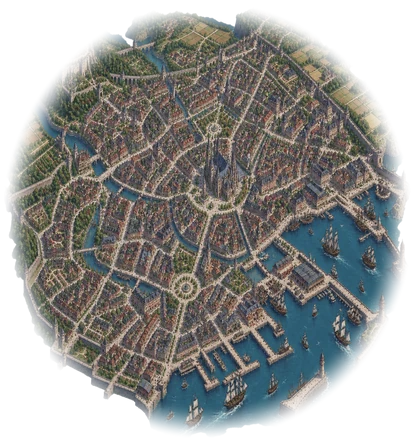
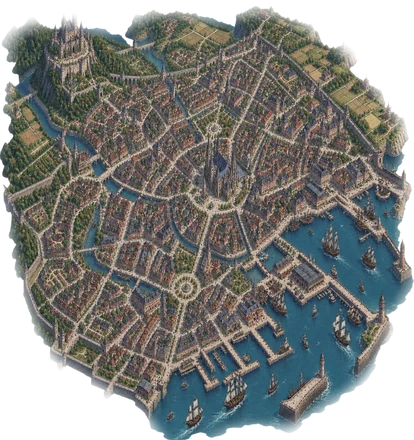
fix(flight): 林子太花是逐格旋轉造成的；城太圓是羽化與整平都用了圓 — ver -181
**樹林太花＝我的排列，不是原檔。** 量出來的：
  紋理自身相鄰像素差（基準）      12.4
  原方向平鋪的接縫                12.6  → 比值 1.02（等於沒有接縫，原檔沒問題）
  鄰格轉置(swap xy)的接縫         23.3  → 比值 1.89（真的斷開）
  鄰格鏡射的接縫                   0.0  → 連續，但製造對稱軸
所以逐格 8 種二面體變換每 410 單位就種下一條斷裂或一條對稱軸 —— 那正是
build_geo.py 裡刻意不用鏡射法做無縫的同一個理由，卻在 runtime 又親手加了回去。
無縫貼圖的正解就是照原方向平鋪。重複感改用**與貼圖週期無關的低頻亮度起伏**
（週期 5200 對 410）打散：不碰紋理的連續性，只讓「每塊看起來一樣亮」不成立。

**城太圓＝兩處都用了圓。**
- `build_city.py` 的羽化用「以圖心為原點的橢圓距離場」，把插畫裁成正圓：
  處理後外緣半徑變異只剩 **2.1%**。改成沿插畫**自己的輪廓**往內羽化
  （alpha 二值化 → 高斯模糊 → smoothstep 取羽化帶，不需要 scipy），
  變異回到 **7.3%**。
- 真正的元凶是**整平的圓台**：半徑 2.6R＝1144 世界單位，比城本身還大一倍，
  玩家看到的「城」其實是那塊台子的外緣。改用三個諧波把半徑揉成不規則
  （相位由聚落座標決定，不會全大陸長同一個樣）；掃描範圍與量地基的環帶
  同步放大 1.45 倍，否則環帶會落在自己剛鏟平的地上。

Changed region(s): [[0.3188, 0.0, 1.0, 1.0], [0.0, 0.0, 0.4928, 0.8568], [0.2319, 0.8864, 0.2609, 0.9159]]

diff --git a/flight/index.html b/flight/index.html
@@ -596,10 +596,16 @@ function buildRoads(){
   window.__roads=paths.length;
 }
 
-/* 反重複：依格號選 8 種二面體變換之一。整片大陸會重複一百多次，
-   不打散的話眼睛一定抓得到節奏。查表，內迴圈成本近乎零。 */
-const GEOROT=new Uint8Array(1024);
-(function(){ for(let i=0;i<1024;i++){ let n=i*374761393; n=(n^(n>>13))*1274126177; GEOROT[i]=(n^(n>>16))&7; } })();
+/* ── 為什麼**不做**逐格旋轉／鏡射 ────────────────────────────
+   曾經做過（每格依格號選 8 種二面體變換之一），結果是整片林子「太花」。量出來的原因：
+     · 轉置（swap xy）之後與鄰格的接縫差 = 紋理自身相鄰差的 **1.89 倍** → 真的斷開，
+       每 410 單位就有一條，整片變成一格一格的破碎感。
+     · 鏡射雖然接縫是連續的（量到 0.0），但它製造**對稱軸** —— 那正是 build_geo.py
+       裡刻意不用鏡射法做無縫的同一個理由，卻在 runtime 又親手加了回去。
+   無縫貼圖的正解就是照原方向平鋪（實測接縫比值 1.02，與任何一條像素邊界無異）。
+   重複感改用**與貼圖週期無關的低頻亮度起伏**打散：它不碰紋理的連續性，
+   只讓「每一塊看起來一樣亮」這件事不成立。 */
+const GEO_MOT=0.18;                        // 低頻亮度起伏的幅度
 
 /* ── 生物群系（哪裡鋪哪一張）──────────────────────────────────
    ⚠ **不靠地圖底色分類**。實測：地圖去飽和之後，一半的陸地落在「認不出是什麼」
@@ -824,12 +830,18 @@ async function loadWorld(){
       const FLAT=CITY?2.6:2.0;           // 這個倍數以內完全整平
       const PAD =CITY?3.6:2.8;           // 裙帶外緣（佔半徑倍數）
       const R=SETTLE_R[S.t], cx=S.x|0, cy=S.y|0;
+      /* ⚠ 整平範圍**不能是正圓**。城下的台子半徑 2.6R（都市級＝1144 世界單位）
+         比城本身還大一倍，玩家看到的「城」其實是這塊台子的外緣 —— 正圓的話
+         整座城就讀成一枚圖釘。用三個諧波把半徑揉成不規則的形狀（每座城各自
+         的相位由座標決定，不會全大陸長同一個樣）。 */
+      const ph1=(S.x*0.37+S.y*0.11), ph2=(S.x*0.13-S.y*0.29), ph3=(S.x*0.07+S.y*0.53);
+      const lobe=(ang)=>1 + 0.22*Math.sin(3*ang+ph1) + 0.13*Math.sin(5*ang+ph2) + 0.08*Math.sin(7*ang+ph3);
       // 目標高度：環帶（R ~ 1.6R）內陸地的中位數
       const ring=[];
-      const r1=Math.ceil(R*(PAD+0.8));
+      const r1=Math.ceil(R*(PAD+0.8)*1.45);
       for(let dy=-r1;dy<=r1;dy++)for(let dx=-r1;dx<=r1;dx++){
         // ⚙ 環帶要取在**裙帶以外**（>PAD），不然量到的是自己剛鏟平的地
-        const d=Math.hypot(dx,dy); if(d<R*PAD||d>R*(PAD+0.8)) continue;
+        const d=Math.hypot(dx,dy); if(d<R*PAD*1.45||d>R*(PAD+0.8)*1.45) continue;
         const x=cx+dx,y=cy+dy;
         if(x<0||y<0||x>=MAPW||y>=MAPH) continue;
         const h=HGT[y*MAPW+x]; if(h<=CLOUD_H) continue;
@@ -844,14 +856,15 @@ async function loadWorld(){
          CLOUD_H —— 那等於把城擺在雲海表面上，字面意義的「飄在雲上」。
          整平後的地基高度才是這座城真正的地面。 */
       S.gh=target;
-      const rP=Math.ceil(R*PAD);
+      const rP=Math.ceil(R*PAD*1.45);            // lobe 最大約 1.43，掃描範圍要含得住
       for(let dy=-rP;dy<=rP;dy++)for(let dx=-rP;dx<=rP;dx++){
         const x=cx+dx,y=cy+dy;
         if(x<0||y<0||x>=MAPW||y>=MAPH) continue;
         const i=y*MAPW+x, h=HGT[i];
         if(h<=CLOUD_H) continue;                       // 海不填
         if(RIV[i]) continue;                           // 河道不鏟——鏟了城外就沒水了
-        const d=Math.hypot(dx,dy)/R;
+        const lb=lobe(Math.atan2(dy,dx));
+        const d=Math.hypot(dx,dy)/R/lb;             // 依方位伸縮 → 不規則的外緣
         if(d>PAD) continue;
         // d<=FLAT 完全整平；FLAT~PAD 之間平滑回到原地形
         const u=(d-FLAT)/(PAD-FLAT);
@@ -1648,6 +1661,7 @@ function render(now){
           const nc0=sx0&VSM, nc1=(sx0+1)&VSM;
           const nz=VEGSEL[nr0+nc0]*(1-su)*(1-sv2)+VEGSEL[nr0+nc1]*su*(1-sv2)
                   +VEGSEL[nr1+nc0]*(1-su)*sv2   +VEGSEL[nr1+nc1]*su*sv2;
+          const nz2=VEGSEL[(((sy0+23)&VSM)*VS)+((sx0+37)&VSM)];   // 亮度起伏用：同場、錯開相位
           /* ── 選類別 ──
              順序即優先權：水 → 崖 → 雪 → 碎石坡 → 荒地 → 森林。
              ⚠ 界線一律用噪聲抖動而不是混色：真實的樹線雪線是不規則的鋸齒，
@@ -1680,14 +1694,7 @@ function render(now){
             else if(sel>=1-VEG_BAND) tex=G_FD;
             else { tex=G_FD; mixTo=G_FL; mixT=1-(sel-VEG_BAND)/(1-2*VEG_BAND); }
           }
-          /* 反重複：每格依格號選 8 種二面體變換之一。 */
-          const cxg=(wx*(1/GT))|0, cyg=(wy*(1/GT))|0;
-          let tx=(wx|0)&GTM, ty=(wy|0)&GTM;
-          const rot=GEOROT[((cxg*7+cyg*13)&1023)];
-          if(rot&1) tx=GTM-tx;
-          if(rot&2) ty=GTM-ty;
-          if(rot&4){ const t2=tx; tx=ty; ty=t2; }
-          const off=((ty*GT)+tx)*3;
+          const off=(((wy|0)&GTM)*GT+((wx|0)&GTM))*3;
           const q=tex*GEO_STRIDE+off;
           let k0=GEOK[q]*(1/128), k1=GEOK[q+1]*(1/128), k2=GEOK[q+2]*(1/128);
           if(mixTo>=0){
@@ -1696,9 +1703,12 @@ function render(now){
             k1=k1*it+GEOK[q2+1]*(1/128)*mixT;
             k2=k2*it+GEOK[q2+2]*(1/128)*mixT;
           }
-          cr*=1+(k0-1)*vegAmt;
-          cg*=1+(k1-1)*vegAmt;
-          cb*=1+(k2-1)*vegAmt;
+          /* 低頻亮度起伏：取樣同一張場但相位錯開，週期（5200）與貼圖週期（410）
+             互質得夠遠 → 兩者的節奏不會對齊，重複感就散掉了。 */
+          const mot=1+((nz2-0.5)*2)*GEO_MOT*vegAmt;
+          cr*=(1+(k0-1)*vegAmt)*mot;
+          cg*=(1+(k1-1)*vegAmt)*mot;
+          cb*=(1+(k2-1)*vegAmt)*mot;
         }
         isRiver=RIV[mi];
         const nl=clamp(0.62+(SLX[mi]*lx+SLY[mi]*ly)*LIGHT_DIR_K,0,1.5);

diff --git a/config.js b/config.js
@@ -8,7 +8,7 @@
 
 /* 版本號：顯示於診斷 HUD（首頁連點團徽 5 下開啟），每次部署遞增尾碼——
  *  用來確認手機（尤其 iOS 主畫面 App 的頑固快取）實際跑到的是哪一版。 */
-export const VERSION = 'ver 2026.08.18-180';
+export const VERSION = 'ver 2026.08.18-181';
 
 export const GAME_CONFIG = {
 

diff --git a/flight/build_city.py b/flight/build_city.py
@@ -47,8 +47,12 @@ SAT = 0.70           # 飽和度倍率
 VAL = 0.86           # 明度倍率
 # 外緣羽化：插畫是硬邊，貼在地形上就是一塊界線分明的補丁——那正是「割裂感」
 # 的來源。把最外圈的 alpha 漸淡，讓郊區的農地與綠地融進地形。
-# ⚠ 只羽化最外 FEATHER 比例，城牆與街廓不能碰到，那是要看得清楚的東西。
-FEATHER = 0.16       # 自外緣往內羽化的比例（佔半徑）
+# ⚠ 羽化要**沿著插畫自己的輪廓**往內，不能用「以圖心為原點的橢圓距離場」。
+#   舊版就是後者，結果把插畫裁成了正圓：實測處理後的外緣半徑變異只剩 2.1%，
+#   而原插畫是 17.4%（479~850）——城看起來「幾乎正圓」就是這麼來的。
+#   作法：把 alpha 二值化後高斯模糊，模糊值本身就是一個沿輪廓的柔邊，
+#   再用 smoothstep 取出羽化帶。不需要 scipy 的距離變換。
+FEATHER = 0.09       # 羽化帶寬（佔短邊的比例）
 
 # ── 高度 ──────────────────────────────────────────────────────────────
 H_BUILT = 0.20       # 一般屋舍（0..1，對應 index.html 的 planH 世界單位）
@@ -96,9 +100,11 @@ for J in JOBS:
     H2, W2 = al.shape[0], al.shape[1]
     yy, xx = np.mgrid[0:H2, 0:W2].astype(np.float32)
 
-    # 外緣羽化（見 FEATHER）：以圖心為原點的橢圓距離場
-    d = np.sqrt(((xx - W2 * 0.5) / (W2 * 0.5)) ** 2 + ((yy - H2 * 0.5) / (H2 * 0.5)) ** 2)
-    t = np.clip((1.0 - d) / FEATHER, 0, 1)
+    # 外緣羽化（見 FEATHER）：沿插畫自己的輪廓往內
+    r_f = max(2.0, min(W2, H2) * FEATHER * 0.5)
+    mask = Image.fromarray((al[:, :, 0] > 40).astype(np.uint8) * 255, 'L')
+    soft = np.asarray(mask.filter(ImageFilter.GaussianBlur(r_f))).astype(np.float32) / 255.0
+    t = np.clip((soft - 0.30) / 0.45, 0, 1)
     al = al * (t * t * (3 - 2 * t))[:, :, None]
 
     # 依海岸線裁切：每個像素換算到大陸座標，取樣高度圖
